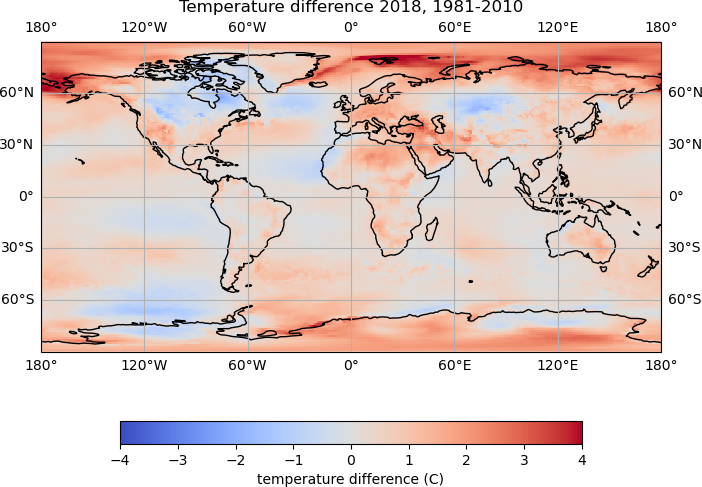
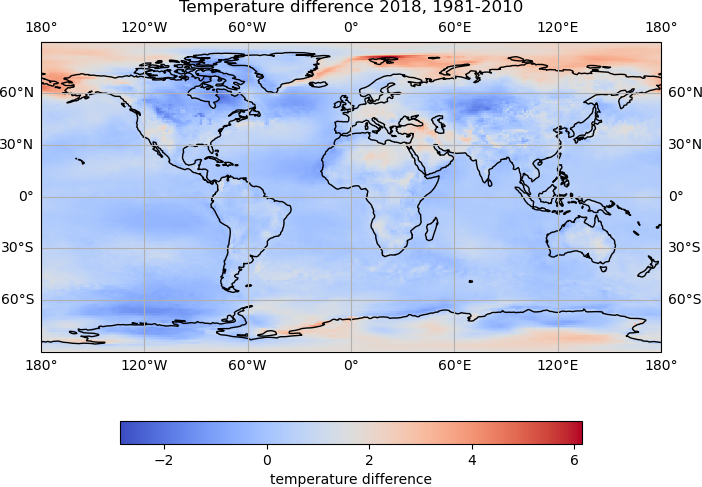
Update geospatial section
Add some notes about enumerate

diff --git a/_episodes/17-geospatial-data.md b/_episodes/17-geospatial-data.md
@@ -360,13 +360,13 @@ def plot_temp_diff(ann_data, hist_data, year):
     # Add gridlines to the map:
     map_axes.gridlines(draw_labels=True)
     # Plot the temperature data:
-    temp_plot = map_axes.pcolormesh(lons, lats, temp_diff, cmap='coolwarm', vmin=-4, vmax=4)
+    temp_plot = map_axes.pcolormesh(lons, lats, temp_diff, cmap='coolwarm')
     # Add coastlines to the map:
     map_axes.add_feature(cartopy.feature.COASTLINE)
     # Add a colour scale:
     cbar = plt.colorbar(temp_plot, orientation='horizontal', fraction=0.05)
     # Set the colour bar label:
-    cbar.set_label('temperature difference (K)')
+    cbar.set_label('temperature difference')
     # Set the plot title:
     map_axes.set_title(f'Temperature difference {year}, 1981-2010')
     # Display the plot:
@@ -374,12 +374,47 @@ def plot_temp_diff(ann_data, hist_data, year):
 ~~~
 {: .language-python}
 
-Once we have created the function, we can loop through the annual data and plot the difference between the temperature data for that year and the historical data.
+Once we have created the function, we can use this to plot the difference in the temperature data for a single year.
+
+The data for 2018 is the first time step in the annual data, so to plot the difference between the historical data and the data for 2018:
 
 ~~~
+plot_temp_diff(ann_temp.data[0], hist_temp_data, 2018)
+~~~
+{: .language-python}
+
+![Temperature Plot 3](../fig/17_temp_plot3.png)
+
+To plot the differences for all years, we can loop through the data.
+
+We can do this using the built in [`enumerate`](https://docs.python.org/3/library/functions.html#enumerate) function, which loops through a collection of items, and at each step of the loop provides the index and value, for example:
+
+~~~
+fruits = ['apples', 'bananas', 'raspberries']
+colours = ['green', 'yellow', 'red']
+
+for index, fruit in enumerate(fruits):
+    colour = colours[index]
+    print(fruit, 'are', colour)
+~~~
+{: .language-python}
+~~~
+apples are green
+bananas are yellow
+raspberries are red
+~~~
+{: .output}
+
+We will define a range of years for which we have data, and use the `enumerate` function to loop through this list, and plot the corresponding data.
+
+~~~
+# get a range of years for which we have data, 2018 to 2022:
 years = range(2018, 2023)
 
+# loop through the years using enumerate:
 for index, year in enumerate(years):
+    # plot the difference between the historical data and the annual data
+    # for this year:
     plot_temp_diff(ann_temp.data[index], hist_temp_data, year)
 ~~~
 {: .language-python}
@@ -399,7 +434,7 @@ for index, year in enumerate(years):
 > > {: .language-python}
 > >
 > > This should produce plots which all have the same colour bounds
-> > ![Temperature Plot 3](../fig/17_temp_plot3.png)
+> > ![Temperature Plot 4](../fig/17_temp_plot4.png)
 > {: .solution}
 {: .challenge}
 
@@ -418,7 +453,7 @@ for index, year in enumerate(years):
 > > ~~~
 > > {: .language-python}
 > >
-> > ![Temperature Plot 4](../fig/17_temp_plot4.png)
+> > ![Temperature Plot 5](../fig/17_temp_plot5.png)
 > {: .solution}
 {: .challenge}
 
@@ -443,6 +478,6 @@ for index, year in enumerate(years):
 > > temp_plot = map_axes.pcolormesh(lons, lats, temp_diff, cmap='coolwarm', vmin=-4, vmax=4, transform=cartopy.crs.PlateCarree())
 > > ~~~
 > > {: .language-python}
-> > ![Temperature Plot 5](../fig/17_temp_plot5.png)
+> > ![Temperature Plot 6](../fig/17_temp_plot6.png)
 > {: .solution}
 {: .challenge}
